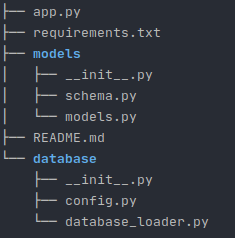
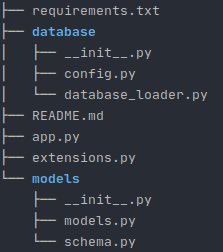
Change README.md

diff --git a/README.md b/README.md
@@ -66,6 +66,8 @@ endpoints. This is in charge of manipulating all the requests and as well as
 validating the generated token.
 - `requirements.txt` this contains all the dependencies that are needed for 
 the application to work.
+- `extensions.py` use to avoid a cyclic import in the SQLAlchemy and 
+Marshmallow objects.
 
 In the models folders there are three files: 
 - `__init__.py` to define the models folder as a Python package and thus
